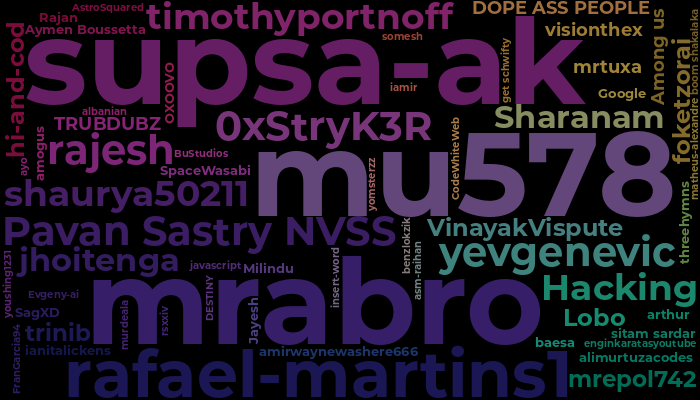
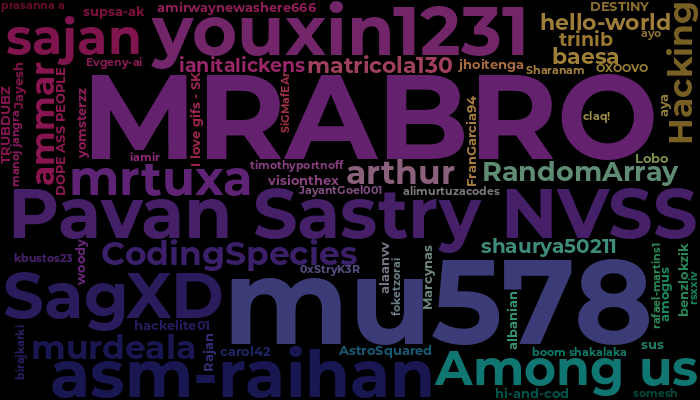
@hackelite01 added 'hackelite01' to the Word Cloud

diff --git a/README.md b/README.md
@@ -14,8 +14,8 @@ Join the Word Cloud Board :cloud: :pencil2:
 
 ## 📛Github Usernames📛
 
-![Word Cloud Words Badge](https://img.shields.io/badge/Words%20in%20this%20Cloud-106-informational?labelColor=003995)
-![Word Cloud Contributors Badge](https://img.shields.io/badge/Cloud%20Contributors-93-blueviolet?labelColor=25004e)
+![Word Cloud Words Badge](https://img.shields.io/badge/Words%20in%20this%20Cloud-107-informational?labelColor=003995)
+![Word Cloud Contributors Badge](https://img.shields.io/badge/Cloud%20Contributors-94-blueviolet?labelColor=25004e)
 
 <img src="https://raw.githubusercontent.com/trinib/word-cloud/main/wordcloud/wordcloud.png" alt="WordCloud" width="100%">
 </div>
